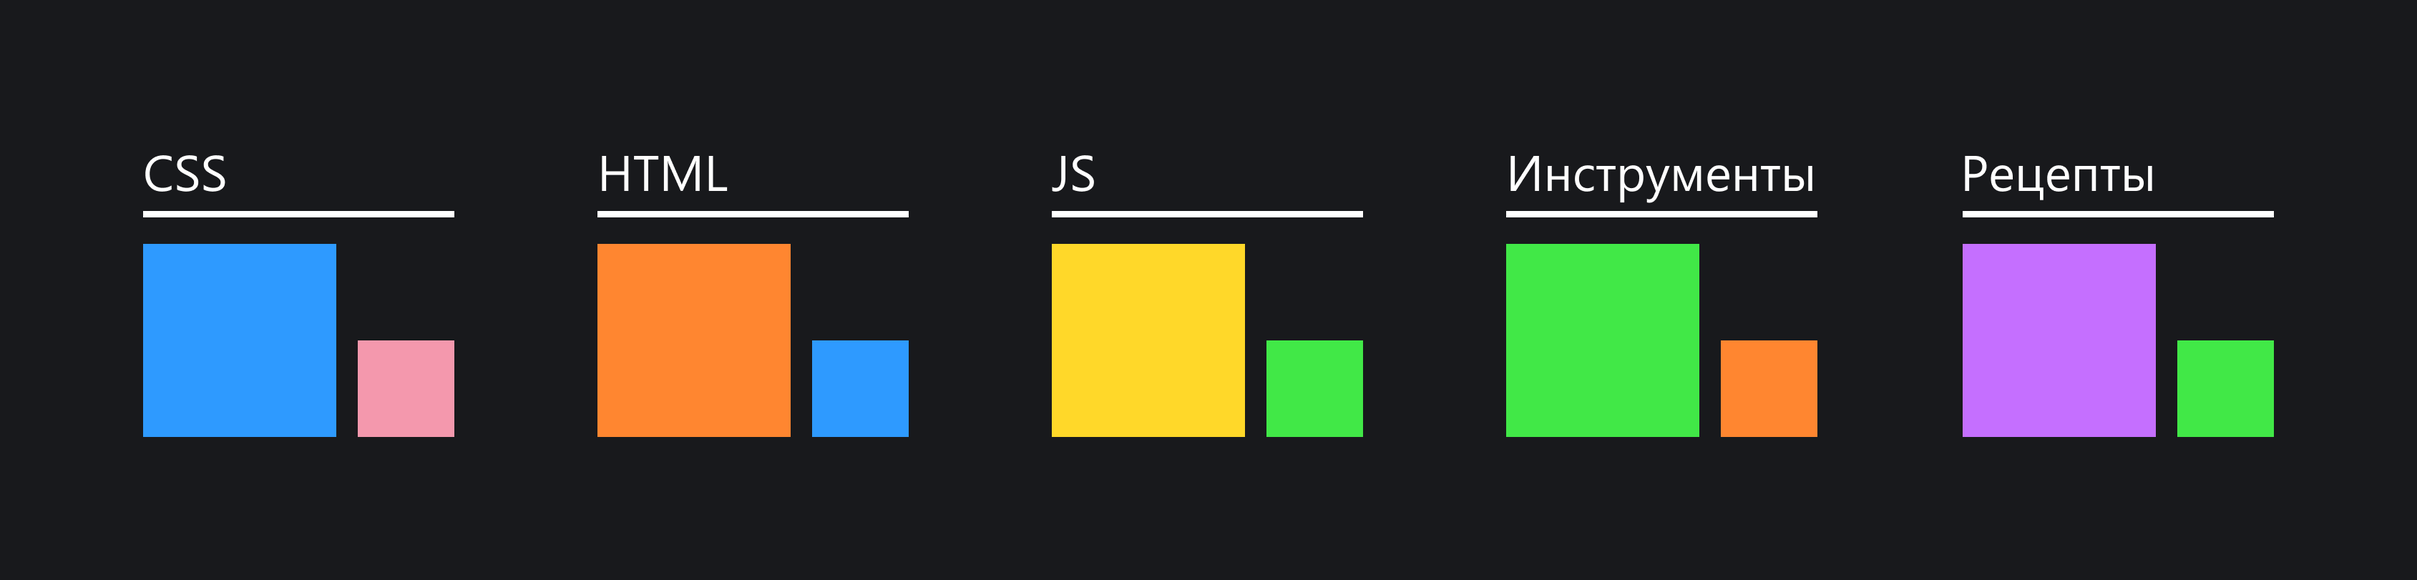
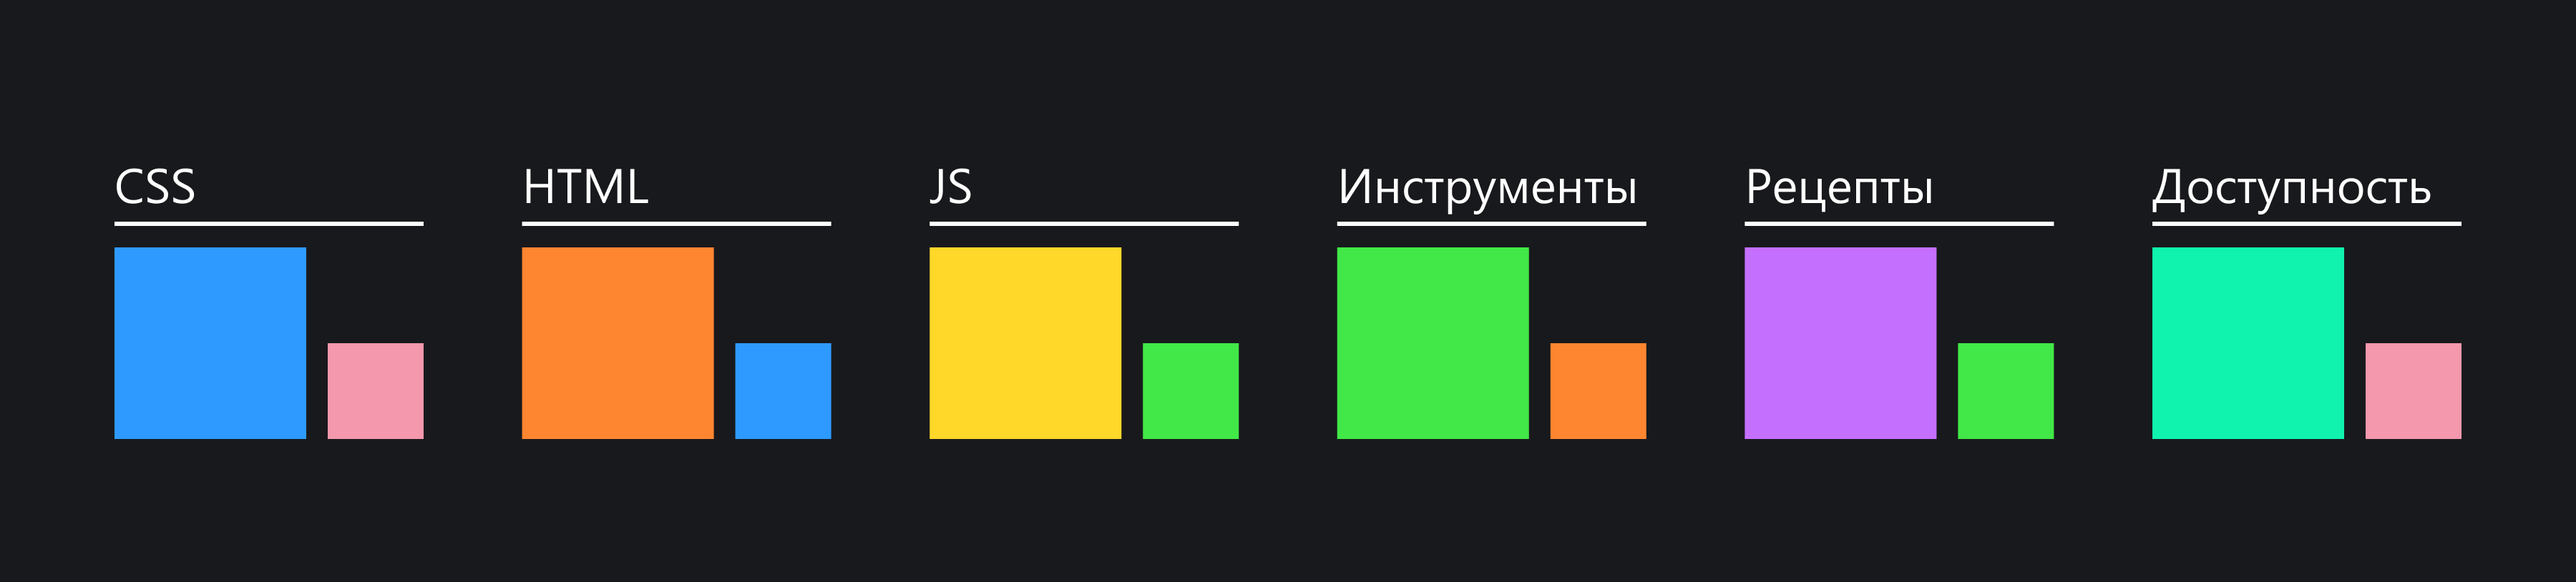
Добавляет изображение и меняет дополнительный цвет

Changed region(s): [[0.0311, 0.2466, 0.9636, 0.7707]]

diff --git a/docs/demos/style.md b/docs/demos/style.md
@@ -138,7 +138,7 @@ body {
 | CSS         | #2E9AFF       | #F498AD        |
 | JS          | #FFD829       | #41E847        |
 | Инструменты | #41E847       | #FF8630        |
-| Рецепты     | #C56FFF       | #41E847        |
+| Рецепты     | #C56FFF       | #F498AD        |
 
 В примерах этого гайда мы будем использовать цвет раздела CSS — `#2E9AFF`, но если вы делаете демку для другого раздела, замените его на подходящий.
 
